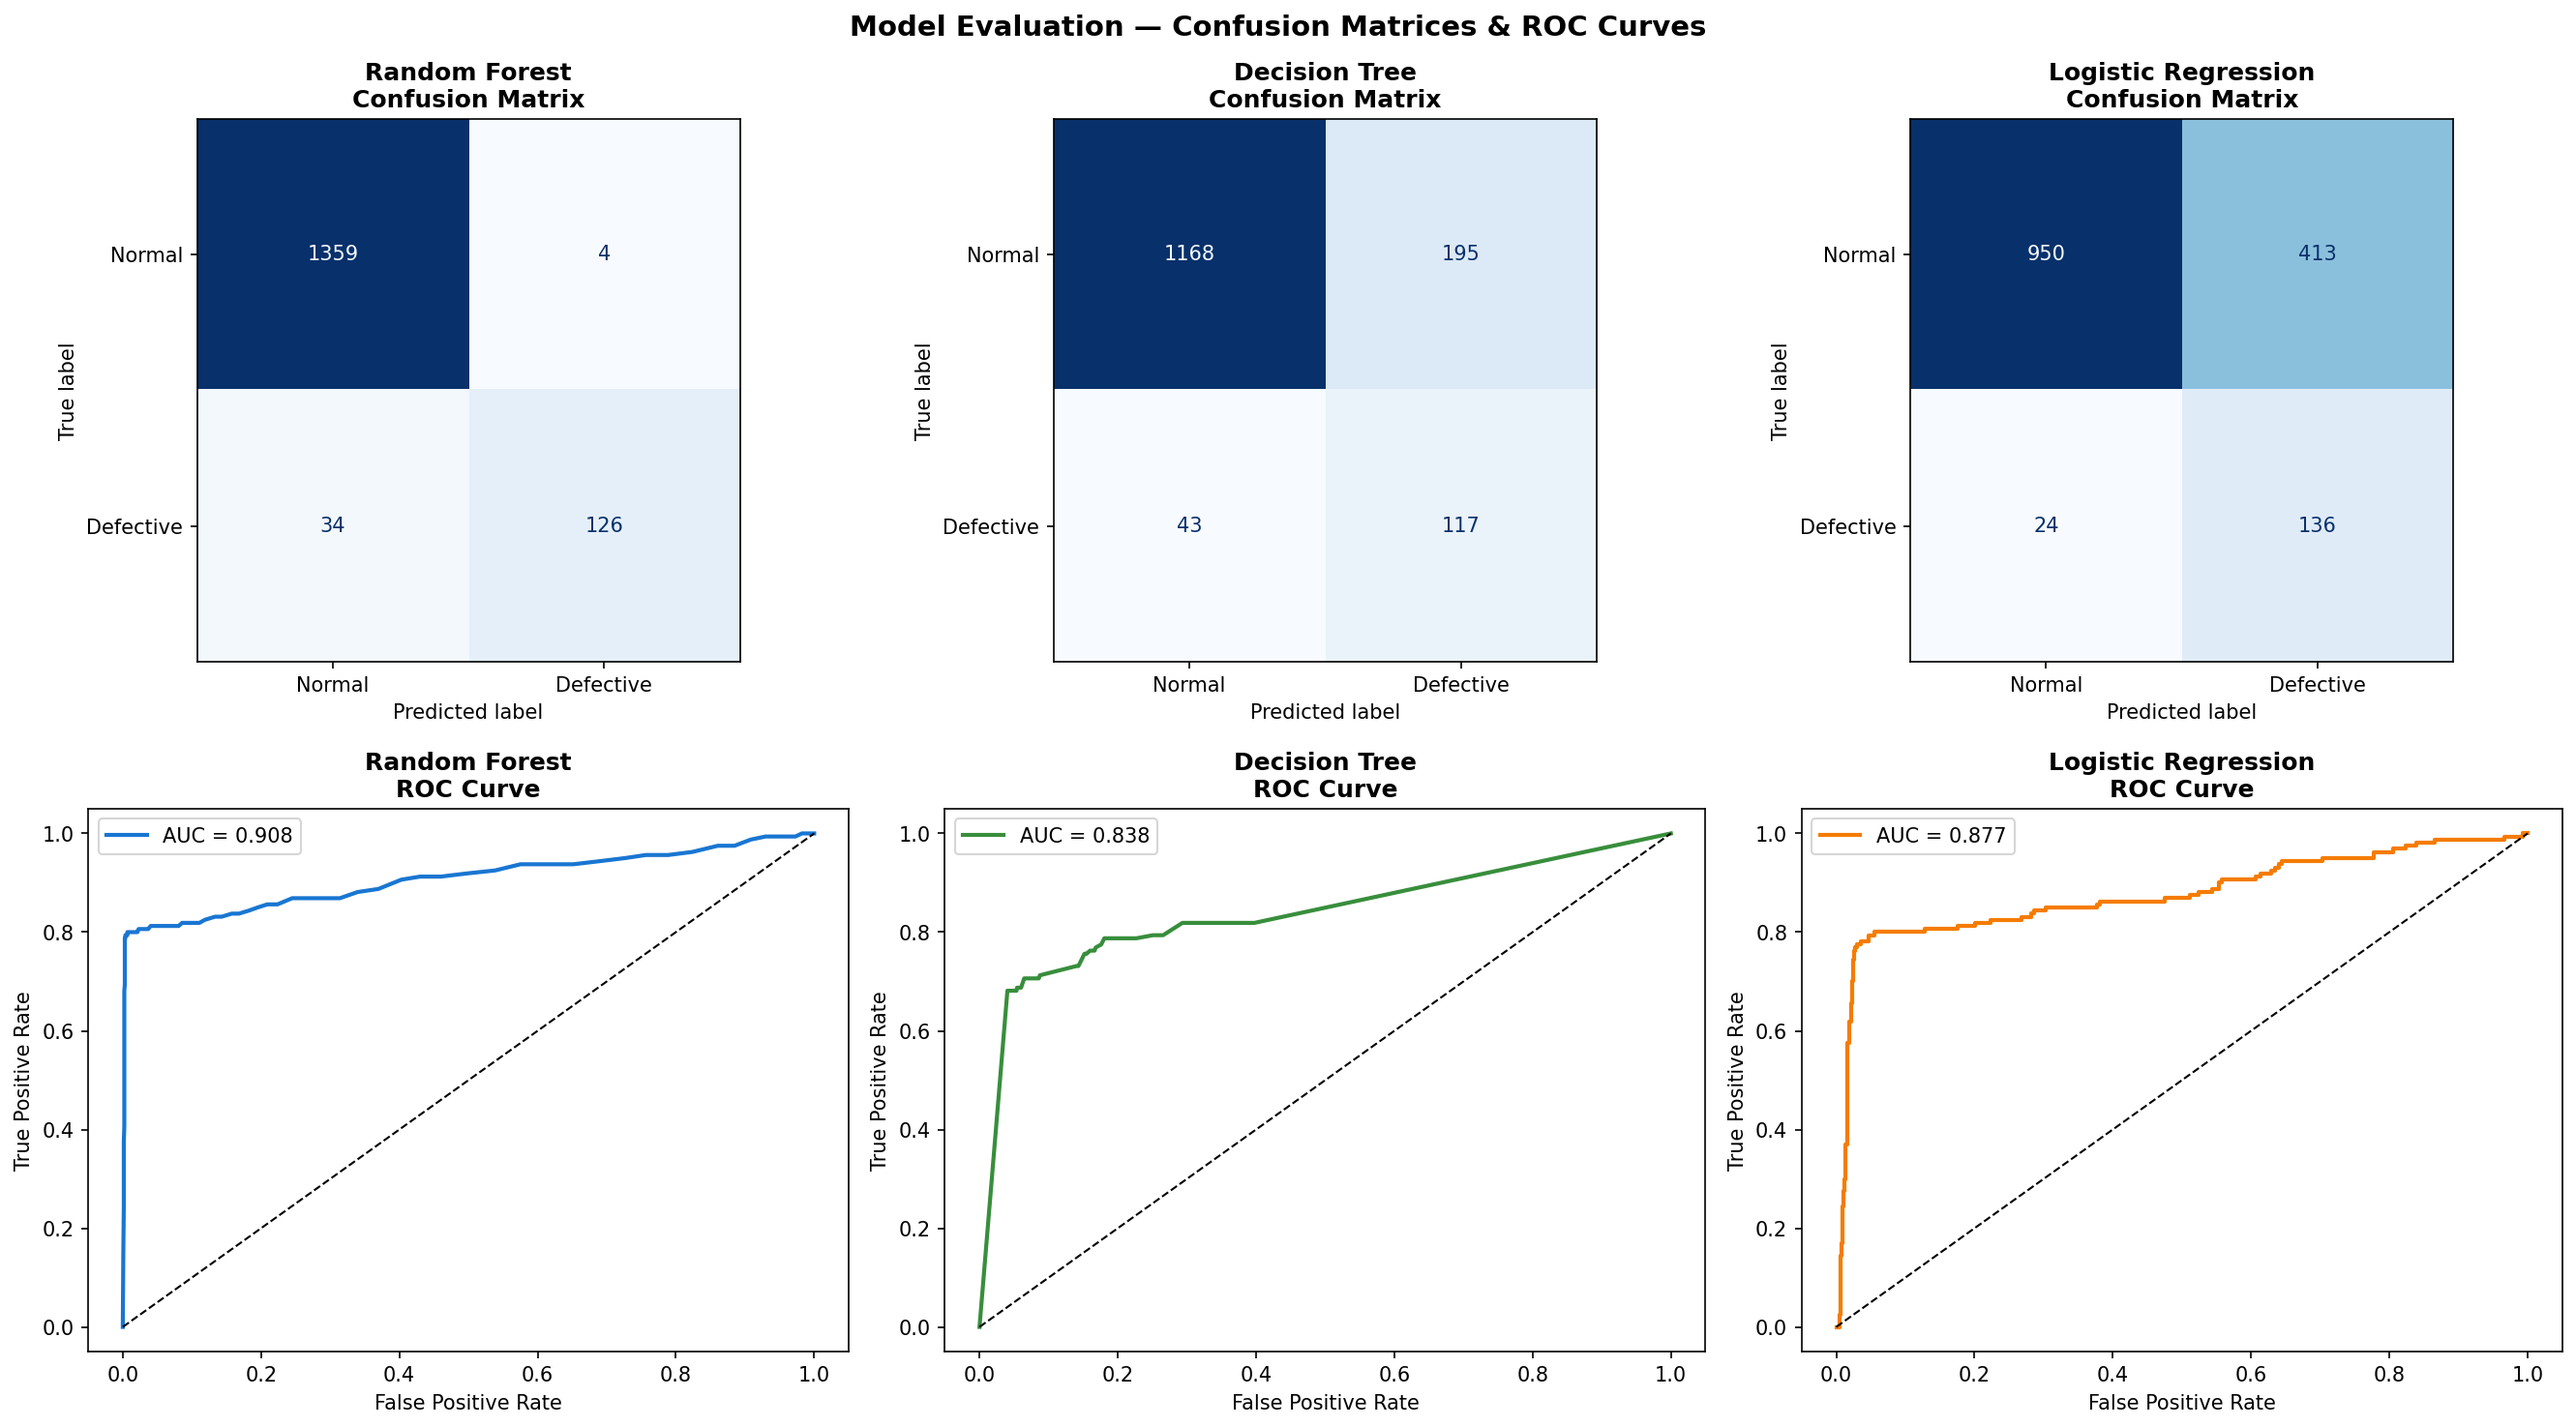
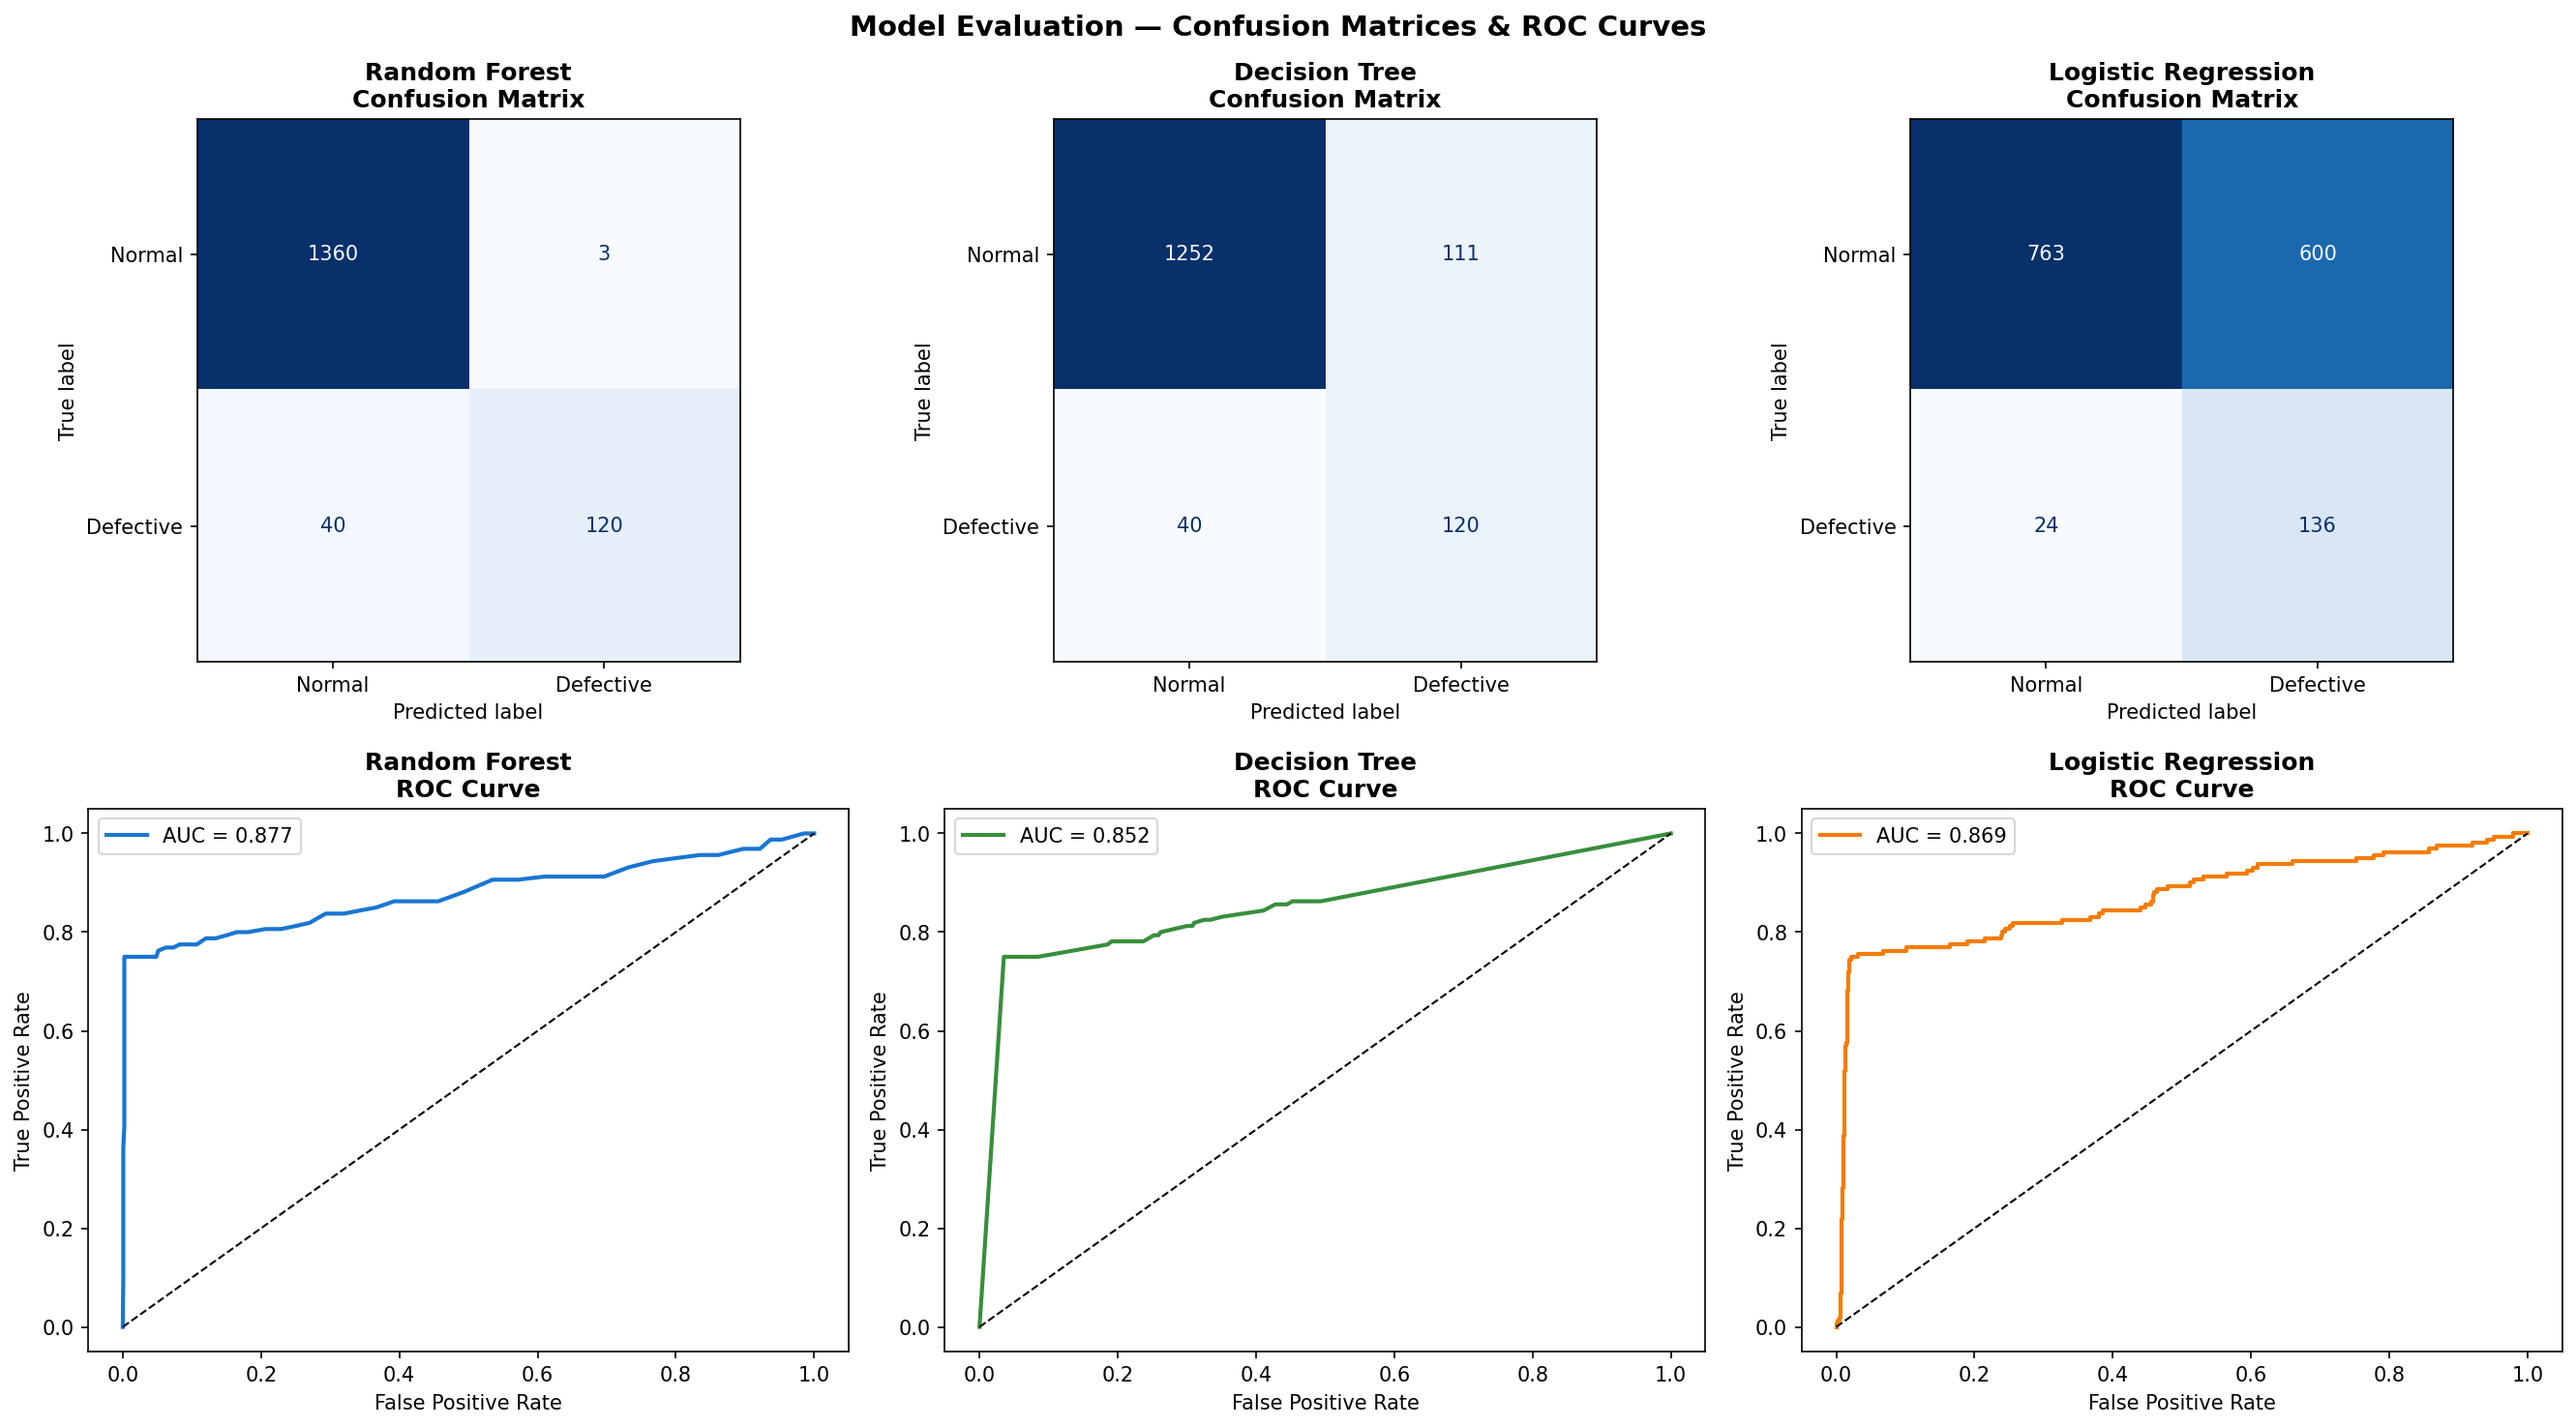
Sort dataset chronologically before feature engineering and LSTM sequencing
The source Excel file is NOT in chronological row order - Timestamp
jumps between 2023 and 2025 arbitrarily row-to-row. Every row-order-
dependent computation was silently operating on scrambled order:
Spindle_Temp_Rolling / Vibration_Rolling (rolling(window=10)),
Temp_Rate_Change (.diff()), and every LSTM sequence window. Sorting
by Timestamp immediately after load fixes all of them at the source.

Result: rolling/diff features are now real rolling stats instead of
noise. LSTM AUC did NOT improve (0.4665 vs 0.5208 before, both within
noise of random) - this rules out scrambled ordering as the cause of
LSTM's poor performance and instead supports the theory that this
dataset's defects are injected as instantaneous anomalies rather than
gradual degradation trends, so no sequence window captures a temporal
signal that isn't already there. Worth reporting as-is: a real bug
was found and fixed, but it isn't the fix for the LSTM.

diff --git a/cnc_predictive_maintenance.py b/cnc_predictive_maintenance.py
@@ -31,6 +31,12 @@ print("=" * 60)
 
 df = pd.read_excel('cncmilingdata2023-2026.xlsx',
                    sheet_name='Sensor_Data')
+
+# The source file is NOT in chronological order (rows jump between years
+# arbitrarily). Rolling averages, .diff(), and the LSTM sequence windows
+# all assume row order == time order, so sort by Timestamp first.
+df = df.sort_values('Timestamp').reset_index(drop=True)
+
 numeric_cols = [
     'Spindle_Speed_RPM',
     'Feed_Rate_mm_per_min',
